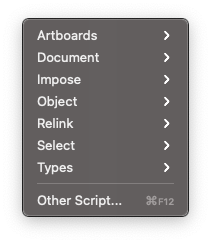
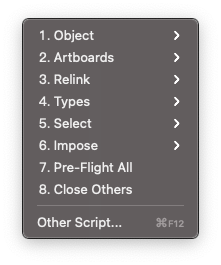
Start indexing Illustrator scripts with [digit * full stop](https://www.compart.com/en/unicode/search?q=full+stop)

diff --git a/Illustrator Scripts/⒏ Close Others.jsx b/Illustrator Scripts/⒏ Close Others.jsx
@@ -1,18 +1,12 @@
-/*
-<javascriptresource>
-<category>3</category>
-</javascriptresource>
-*/
-
 // Close other tabs without saving.
 
-#target Photoshop
-#include '../.lib/commons.js'
+#target Illustrator
+#include '.lib/commons.js'
 
 check(app.documents.length !== 1, 'No other documents')
 
 if (confirm('Close all other documents without saving?', undefined, 'Close Others')) {
-    for (var i = 0; i < app.documents.length; i++) {
+    for (var i = 1; i < app.documents.length; i++) {
         if (app.documents[i] === document) {
             continue
         }

diff --git a/Photoshop Scripts/Close Others.jsx b/Photoshop Scripts/Close Others.jsx
@@ -1,12 +1,18 @@
+/*
+<javascriptresource>
+<category>3</category>
+</javascriptresource>
+*/
+
 // Close other tabs without saving.
 
-#target Illustrator
-#include '../.lib/commons.js'
+#target Photoshop
+#include '.lib/commons.js'
 
 check(app.documents.length !== 1, 'No other documents')
 
 if (confirm('Close all other documents without saving?', undefined, 'Close Others')) {
-    for (var i = 1; i < app.documents.length; i++) {
+    for (var i = 0; i < app.documents.length; i++) {
         if (app.documents[i] === document) {
             continue
         }

diff --git a/Photoshop Scripts/Close to the Right.jsx b/Photoshop Scripts/Close to the Right.jsx
@@ -11,7 +11,7 @@
 // * no way to know actual position of active document.
 
 #target Photoshop
-#include '../.lib/commons.js'
+#include '.lib/commons.js'
 
 check(app.documents.length !== 1, 'No other documents')
 

diff --git a/Illustrator Scripts/⒎ Pre-Flight All.jsx b/Illustrator Scripts/⒎ Pre-Flight All.jsx
@@ -1,7 +1,7 @@
 // Quality check all tabs.
 
 #target Illustrator
-#include '../.lib/commons.js'
+#include '.lib/commons.js'
 
 var allOkay = true
 for (var i = 0; i < app.documents.length; i++) {

diff --git a/Photoshop Scripts/Pre-Flight All.jsx b/Photoshop Scripts/Pre-Flight All.jsx
@@ -7,7 +7,7 @@
 // Quality check all tabs.
 
 #target Photoshop
-#include '../.lib/commons.js'
+#include '.lib/commons.js'
 
 var allOkay = true
 for (var i = 0; i < app.documents.length; i++) {
